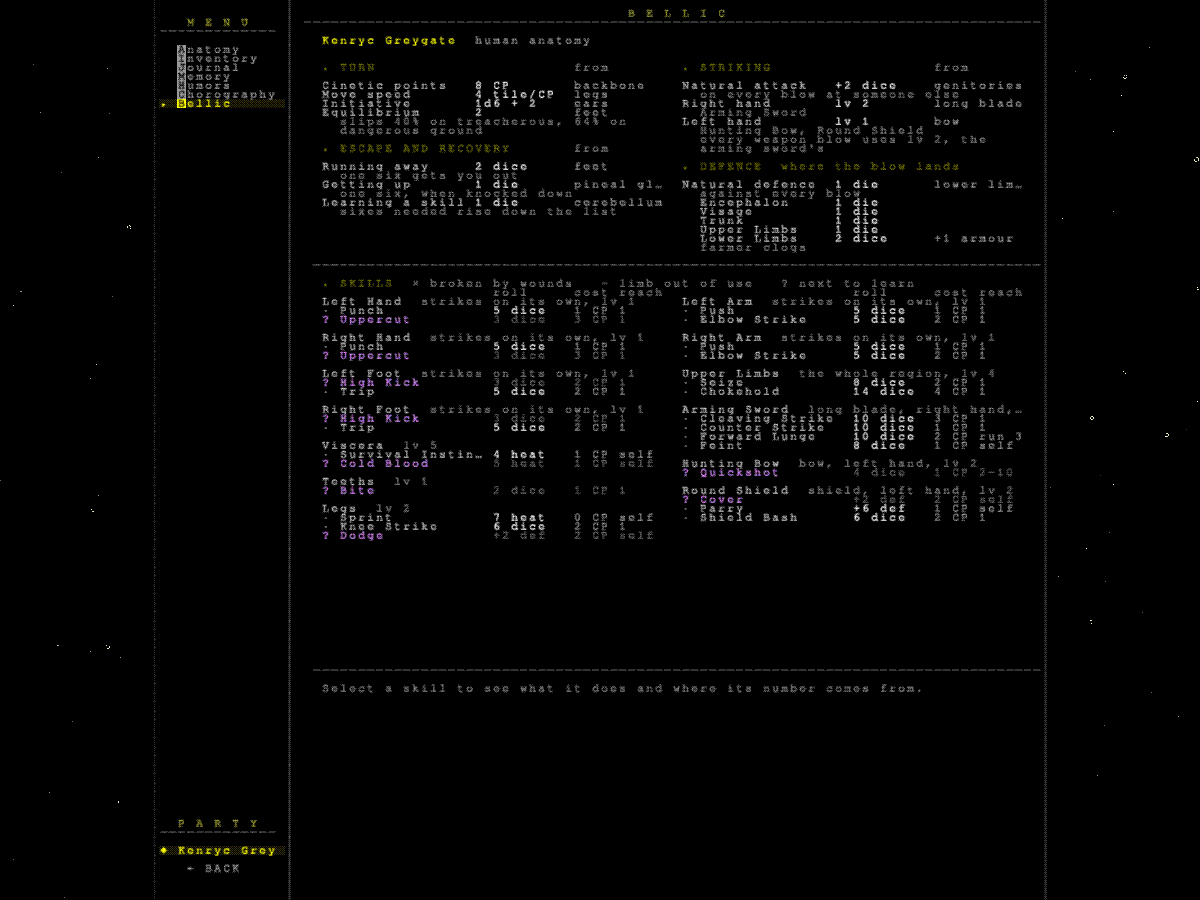
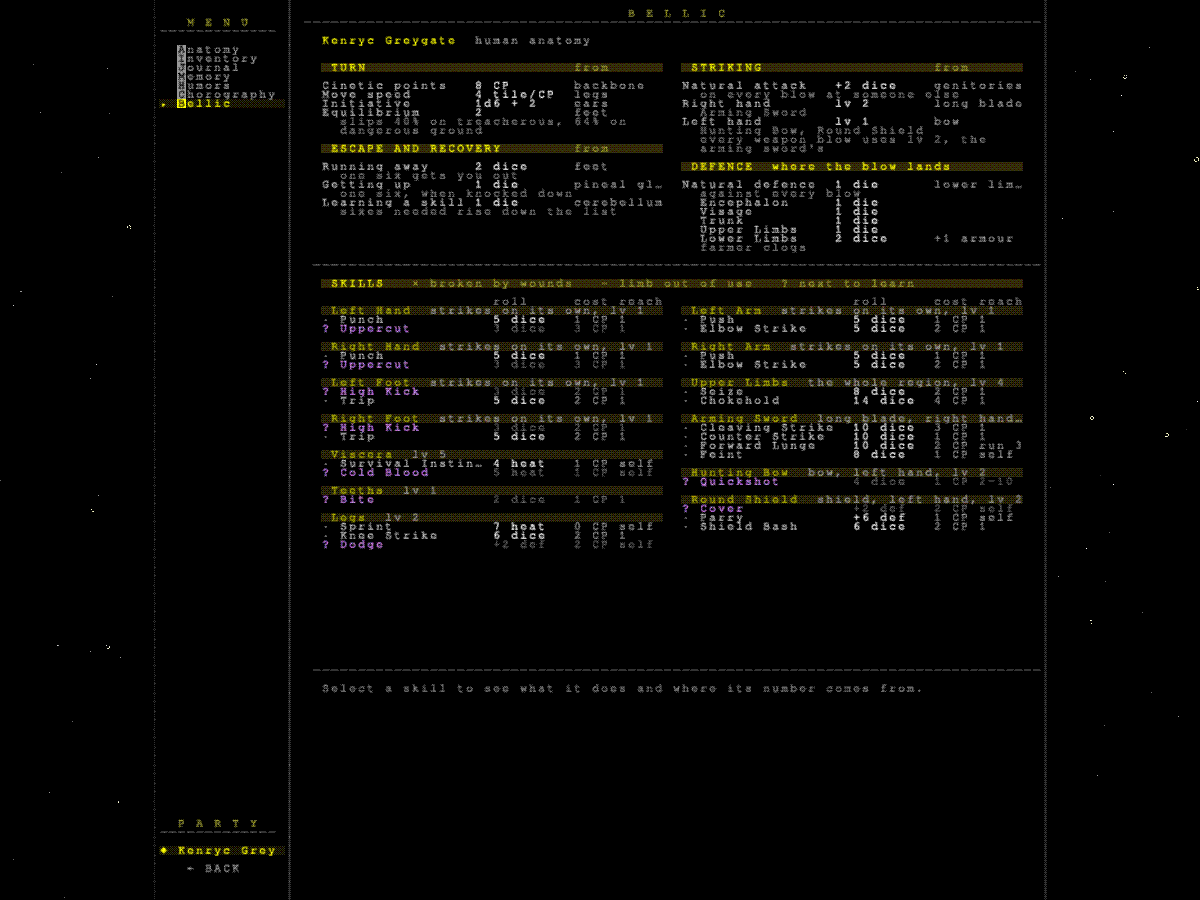
Bellic: bands behind headers; journal: no system wording reaches the writer
Bellic was hard to scan: section titles, medium blocks and the expanded
skill now sit on bands in the menu's own yellow family (section titles
strongest, a block's medium lighter, the selected skill brightest), and a
skill's total sits on a band in the breakdown. A long medium name no longer
runs into its level there.

The chronicler was writing "Item received: …" and "Modus mentis acquired: …"
into its paragraphs. Three sources, closed by type:
- a fact is still shown as its chip, but the writer is given the outcome's
  Verbatim ("received a knife") — JournalEntry.Phrase;
- SkillAcquisitionOutcome joins the bookkeeping chips kept out (the lesson is
  a milestone);
- a block no modus mentis narrated (a trade note, a fight's log tail) is the
  game talking and is not recorded at all.
Lesson milestones stay on the tab but are marked and kept from the writer,
which turned them into "learning social interaction".

Checked: a captured visit written by the real model reads without any of it.
Audits 13/13; bellic_tab, bellic_armed_wounded, journal_capture,
journal_chronicler, save_roundtrip, save_resume, dialogue_success,
fight_victory_narration, companion_handoff pass. Screens refreshed.

Claude-Session: https://claude.ai/code/session_015Vde8Np6QFBX4eUPD8QekP

Changed region(s): [[0.2467, 0.3111, 0.8633, 0.6222], [0.2467, 0.1556, 0.8633, 0.2178], [0.2467, 0.0622, 0.8633, 0.0933]]

diff --git a/src/game/management/BellicMenuRenderer.cs b/src/game/management/BellicMenuRenderer.cs
@@ -52,8 +52,14 @@ public sealed class BellicMenuRenderer
     private static readonly Vector4 WoundColor  = Config.Colors.BrightPurple;
     private static readonly Vector4 LearnColor  = Config.Colors.LightPurple;
     private static readonly Vector4 OffColor    = Config.Colors.DarkGray40;
-    private static readonly Vector4 HoverBg     = new(0.07f, 0.06f, 0.01f, 1.0f);
-    private static readonly Vector4 SelectBg    = new(0.10f, 0.09f, 0.02f, 1.0f);
+    // Bands behind what a player scans for: a section title, a block's medium, the selected skill. In
+    // the yellow family of the menu's own active row; never a near-black grey, which the dither layer
+    // breaks into pattern noise.
+    private static readonly Vector4 HeadBg      = new(0.20f, 0.17f, 0.03f, 1.0f);
+    private static readonly Vector4 GroupBg     = new(0.15f, 0.13f, 0.03f, 1.0f);
+    private static readonly Vector4 HoverBg     = new(0.11f, 0.10f, 0.02f, 1.0f);
+    private static readonly Vector4 SelectBg    = new(0.28f, 0.24f, 0.05f, 1.0f);
+    private static readonly Vector4 HeadText    = Config.Colors.BrightYellow;
 
     private BellicProfile? _profile;
     private readonly List<(int Row, int X, BellicProfile.SkillRow Skill)> _hitRows = new();
@@ -145,9 +151,10 @@ public sealed class BellicMenuRenderer
     /// <summary>A titled block of stat lines. Returns the row after it.</summary>
     private int Section(int x, int row, string title, List<BellicProfile.Stat> stats)
     {
-        _terminal.Text(x, row, $"▸ {title}", HeadColor, Bg);
+        Band(x, row, ColW, HeadBg);
+        _terminal.Text(x + 1, row, title, HeadText, HeadBg);
         if (stats.Any(s => s.Source.Length > 0) && !title.StartsWith("DEFENCE"))
-            _terminal.Text(x + SourceOff, row, "from", NoteColor, Bg);
+            _terminal.Text(x + SourceOff, row, "from", Config.Colors.DarkYellowGrey, HeadBg);
         row += 2;
 
         foreach (var s in stats)
@@ -174,10 +181,11 @@ public sealed class BellicMenuRenderer
         for (int c = AreaLeft + 1; c < Config.Terminal.MainWidth - 1; c++)
             _terminal.SetCell(c, top, '─', SepColor, Bg);
         top += 2;
-        _terminal.Text(LeftX, top, "▸ SKILLS", HeadColor, Bg);
+        Band(LeftX, top, RightX + ColW - LeftX, HeadBg);
+        _terminal.Text(LeftX + 1, top, "SKILLS", HeadText, HeadBg);
         _terminal.Text(LeftX + 10, top, "× broken by wounds   – limb out of use   ? next to learn",
-                       NoteColor, Bg);
-        top += 1;
+                       Config.Colors.DarkYellowGrey, HeadBg);
+        top += 2;
 
         if (p.Groups.Count == 0)
         {
@@ -210,10 +218,11 @@ public sealed class BellicMenuRenderer
             if (i == split) { x = RightX; row = top; }
             if (row > bottom) continue;
 
-            _terminal.Text(x, row, Clip(g.Title, 20), LabelColor, Bg);
+            Band(x, row, ColW, GroupBg);
+            _terminal.Text(x + 1, row, Clip(g.Title, 20), Config.Colors.MediumYellow, GroupBg);
             string sub = (g.Subtitle.Length > 0 ? g.Subtitle + ", " : "") + $"lv {g.Level}";
-            int subX = Math.Min(20, g.Title.Length) + 2;
-            _terminal.Text(x + subX, row, Clip(sub, ColW - subX), NoteColor, Bg);
+            int subX = Math.Min(20, g.Title.Length) + 3;
+            _terminal.Text(x + subX, row, Clip(sub, ColW - subX), Config.Colors.MediumGray60, GroupBg);
             row++;
 
             foreach (var r in g.Skills)
@@ -265,8 +274,12 @@ public sealed class BellicMenuRenderer
         }
 
         int y = DetailTop;
+        bool first = true;
         foreach (var (text, tone) in p.Detail(row))
         {
+            // The skill's name heads the panel on a section's band; its total sits on a block's.
+            Vector4 bg = first ? HeadBg : tone == BellicProfile.Tone.Title ? GroupBg : Bg;
+            first = false;
             Vector4 c = tone switch
             {
                 BellicProfile.Tone.Title  => Config.Colors.BrightYellow,
@@ -280,12 +293,19 @@ public sealed class BellicMenuRenderer
             foreach (var line in text.Length == 0 ? new[] { "" } : Wrap(text, DetailW))
             {
                 if (y > DetailBottom) return;
-                _terminal.Text(LeftX, y++, line, c, Bg);
+                if (bg != Bg) Band(LeftX, y, DetailW + 1, bg);
+                _terminal.Text(bg != Bg ? LeftX + 1 : LeftX, y++, line, c, bg);
             }
         }
     }
 
     // ── Helpers ──────────────────────────────────────────────────
+
+    private void Band(int x, int row, int width, Vector4 bg)
+    {
+        for (int i = 0; i < width && x + i < Config.Terminal.MainWidth - 1; i++)
+            _terminal.SetCell(x + i, row, ' ', bg, bg);
+    }
 
     private BellicProfile.SkillRow? Find((string Group, string Skill) key) =>
         _profile?.Groups.FirstOrDefault(g => g.Key == key.Group)?.Skills.FirstOrDefault(r => r.Skill.SkillId == key.Skill);

diff --git a/src/game/narrative/JournalRecorder.cs b/src/game/narrative/JournalRecorder.cs
@@ -55,7 +55,9 @@ public static class JournalRecorder
             var e = Add(JournalEntryKind.Dialogue, labelled ? block.Text[(colon + 2)..] : block.Text, actor);
             if (e != null && labelled) { e.Actor = block.Text[..colon]; e.ByCompanion = false; }
         }
-        else
+        // A block no mind narrated is the game talking — a trade note, the tail of a fight's log
+        // ("— Modus mentis learned: …"). The screen shows it; the story is told elsewhere.
+        else if (block.ModusMentis is not null)
         {
             string text = block.Text;
             // The outcome block opens on its verdict for the screen; the chips say what came of it.
@@ -72,7 +74,12 @@ public static class JournalRecorder
 
         if (block.OutcomeReports != null)
             foreach (var chip in block.OutcomeReports.Where(r => r.ShowInUI && IsStory(r)))
-                Add(JournalEntryKind.Fact, chip.Text, actor);
+            {
+                // The chip is what the screen showed; the chronicler is given the outcome's own plain
+                // phrase instead ("received a knife"), or it copies the chip's "Item received: Knife".
+                var e = Add(JournalEntryKind.Fact, chip.Text, actor);
+                if (e != null) e.Phrase = chip.Verbatim;
+            }
     }
 
     /// <summary>
@@ -81,6 +88,7 @@ public static class JournalRecorder
     /// to the chronicler, they came back as "gaining two more experience points" (tools/journal/).
     /// </summary>
     private static bool IsStory(Outcome chip) => chip is not (ModusMentisPracticeOutcome or ModusMentisGrantOutcome
+                                                              or SkillAcquisitionOutcome
                                                               or Cathedral.Game.Scene.FocusLostOutcome or WoundInflictionOutcome);
 
     /// <summary>A line spoken in a conversation: an NPC's, or the reply the player picked.</summary>
@@ -96,13 +104,13 @@ public static class JournalRecorder
     /// learned once). An empty key never deduplicates.
     /// </summary>
     public static void Milestone(string text, PartyMember? who = null, string key = "",
-                                 (int LocationId, string Place, string Area)? where = null)
+                                 (int LocationId, string Place, string Area)? where = null, bool lesson = false)
     {
         var j = Journal;
         if (j == null) return;
         if (key.Length > 0 && j.Entries.Any(e => e.Kind == JournalEntryKind.Milestone && e.Key == key)) return;
         var e = Add(JournalEntryKind.Milestone, text, who, where);
-        if (e != null) e.Key = key;
+        if (e != null) { e.Key = key; e.Lesson = lesson; }
     }
 
     /// <summary>True when <paramref name="m"/> travels with the protagonist (or is the protagonist).</summary>

diff --git a/src/game/narrative/Journal.cs b/src/game/narrative/Journal.cs
@@ -60,6 +60,17 @@ public sealed class JournalEntry
     public NarrationBlockType? Block { get; set; }
     /// <summary>For a milestone, what it is about, so the same lesson or place is not announced twice.</summary>
     public string Key { get; set; } = "";
+    /// <summary>
+    /// For a fact, the outcome's plain first-person phrase ("received a knife") — what the chronicler is
+    /// told, where <see cref="Source"/> keeps the chip as the screen showed it ("Item received: Knife").
+    /// </summary>
+    public string Phrase { get; set; } = "";
+    /// <summary>
+    /// A milestone that is a modus mentis learned. Shown in the journal, but not given to the
+    /// chronicler: a lesson's name is the game's vocabulary, and it came back as "learning social
+    /// interaction" in the prose.
+    /// </summary>
+    public bool Lesson { get; set; }
 }
 
 /// <summary>
@@ -178,7 +189,7 @@ public sealed class Journal
         {
             Seq = e.Seq, Kind = e.Kind, Day = e.Day, Place = e.Place, Area = e.Area, LocationId = e.LocationId,
             Actor = e.Actor, ByCompanion = e.ByCompanion, Source = e.Source, Written = e.Written,
-            State = e.State, Group = e.Group, Block = e.Block, Key = e.Key,
+            State = e.State, Group = e.Group, Block = e.Block, Key = e.Key, Phrase = e.Phrase, Lesson = e.Lesson,
         }).ToList(),
     };
 }

diff --git a/src/game/narrative/ChroniclerPrompt.cs b/src/game/narrative/ChroniclerPrompt.cs
@@ -123,8 +123,8 @@ Rules:
         string who = e.ByCompanion ? $" ({e.Actor}, a companion)" : "";
         return e.Kind switch
         {
-            JournalEntryKind.Milestone when marks => $"- MILESTONE: {e.Source}",
-            JournalEntryKind.Fact when facts      => $"- CHANGED: {e.Source}",
+            JournalEntryKind.Milestone when marks && !e.Lesson => $"- MILESTONE: {e.Source}",
+            JournalEntryKind.Fact when facts      => $"- CHANGED: {(e.Phrase.Length > 0 ? e.Phrase : e.Source)}",
             JournalEntryKind.Dialogue when narration => $"- SAID by {e.Actor}: \"{Clip(e.Source.Trim('"'))}\"",
             JournalEntryKind.Narration when narration && e.Block == NarrationBlockType.Emotion
                                                     => $"- FELT{who}: {Clip(e.Source)}",

diff --git a/src/game/narrative/PartyMember.cs b/src/game/narrative/PartyMember.cs
@@ -640,7 +640,7 @@ public abstract class PartyMember
         // The childhood memory is the reminescence phase's own record, swapped in, not a lesson.
         if (!JournalRecorder.IsInParty(this) || mm is ModiMentis.ChildhoodMemoryModusMentis) return;
         JournalRecorder.Milestone($"Learned {Cathedral.Game.NeutralNarration.ModusMentisPhrase(mm.DisplayName)}", this,
-                                  $"mm:{AffinityKey}:{mm.ModusMentisId}");
+                                  $"mm:{AffinityKey}:{mm.ModusMentisId}", lesson: true);
     }
 
     public ModusMentis? LearnModusMentis(ModusMentis modusMentis)

diff --git a/src/game/management/BellicProfile.cs b/src/game/management/BellicProfile.cs
@@ -362,8 +362,9 @@ public sealed class BellicProfile
 
     private static string Term(string name, int level, int mult)
     {
-        string left = $"  {name}".PadRight(22) + $"lv {level}";
-        return mult != 1 ? $"{left} x{mult}".PadRight(30) + $"+{level * mult}" : left.PadRight(30) + $"+{level}";
+        string left = $"  {name}".PadRight(Math.Max(22, name.Length + 4)) + $"lv {level}";
+        string term = mult != 1 ? $"{left} x{mult}" : left;
+        return term.PadRight(Math.Max(30, term.Length + 2)) + $"+{level * mult}";
     }
 
     private static string MmName(string id) =>

diff --git a/src/game/CLAUDE.md b/src/game/CLAUDE.md
@@ -1935,8 +1935,12 @@ generated:
 | narration | `NarrationScrollBuffer.BlockAdded` | a preview part that was reset never commits, so it never reaches the journal |
 | an NPC's line | the same event (`Speaking` blocks), named by the label the player knows | a generated proper name the player was never told does not leak |
 | the reply picked | `DialogueTreeController.OnOptionSelected` | the options left unpicked are never recorded |
-| a fact | a shown block's `OutcomeReports` with `ShowInUI` | not `Outcome.ApplyTo`, which also runs for outcomes nobody saw |
+| a fact | a shown block's `OutcomeReports` with `ShowInUI`, minus bookkeeping by type (practice, grants, spent noetic points, wounds) | not `Outcome.ApplyTo`, which also runs for outcomes nobody saw. The chip text is kept for the screen; the chronicler is given the outcome's `Verbatim` (`Phrase`) — handed "Item received: Knife" it wrote it into the prose |
 | a milestone | the event itself: a lesson (`PartyMember.LearnModusMentis`/`AcquireModusMentis`, party members only), a wound (`FightResolver.ApplyWound`, `WoundInflictionOutcome`), a healing, a companion joining, dying or parted with, a first visit (keyed by vertex, whatever the mental maps forget), a fight won or fled | each once, by `Key` where it could repeat |
+
+A block no modus mentis narrated (`ModusMentis` null: a trade note, a fight's log tail) is the game
+talking and is not recorded. A lesson milestone is shown but marked `Lesson` and kept from the
+chronicler, which turned modus mentis names into "learning social interaction".
 
 Narration is credited to whoever is acting when the block commits — the Speak About hand-off commits
 the speech before switching member, so the speech stays the speaker's and what follows is the
